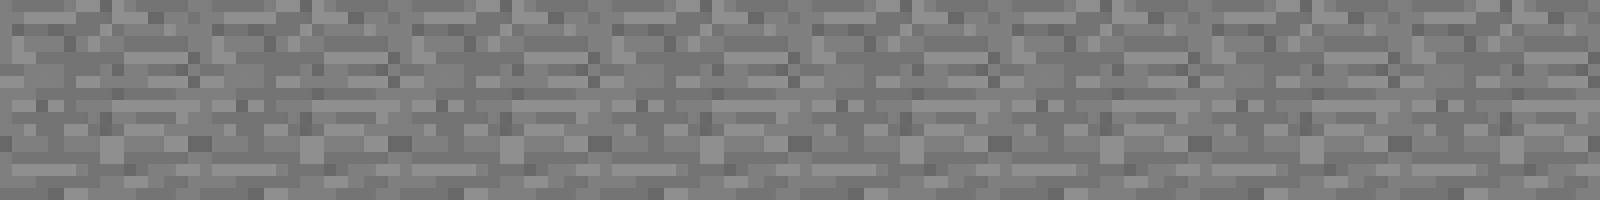
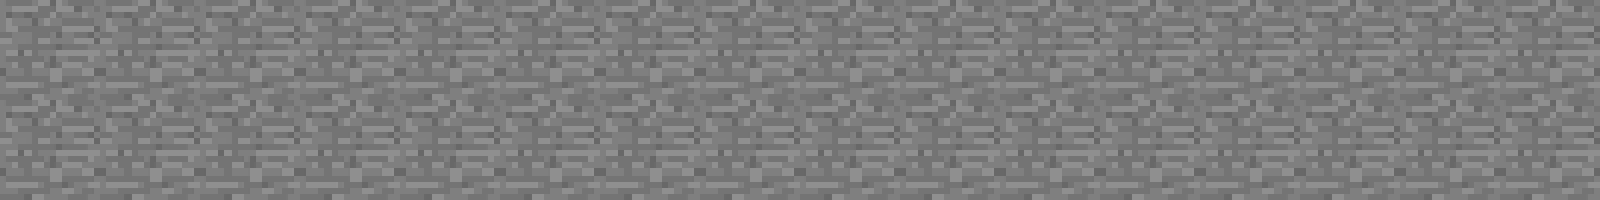
Updated some graphics and sprite positions
The game is still not pretty, but it's playable and visually makes enough sense

diff --git a/StripMiner/StripMiner.cpp b/StripMiner/StripMiner.cpp
@@ -12,7 +12,7 @@ using namespace sf;
 //Function prototypes
 void updateSpiders();
 
-const int NUM_SPIDERS = 8;
+const int NUM_SPIDERS = 9;
 Sprite spiders[NUM_SPIDERS];
 
 Sprite strips[3];
@@ -43,9 +43,9 @@ int main()
 	for (int i = 0; i < 3; i++) {
 		strips[i].setTexture(textureStrip);
 	}
-	strips[0].setPosition(400, 150);
-	strips[1].setPosition(400, 450);
-	strips[2].setPosition(400, 750);
+	strips[0].setPosition(0, 150);
+	strips[1].setPosition(0, 450);
+	strips[2].setPosition(0, 750);
 
 	//Prepare 8 spiders
 	Texture textureSpider;
@@ -158,10 +158,10 @@ int main()
 
 	//Prepare the player
 	Texture texturePlayer;
-	texturePlayer.loadFromFile("graphics/player.png");
+	texturePlayer.loadFromFile("graphics/steve_side.png");
 	Sprite spritePlayer;
 	spritePlayer.setTexture(texturePlayer);
-	spritePlayer.setPosition(580, 720);
+	spritePlayer.setPosition(1650, 750);
 
 	//The player starts on the left
 	strip playerstrip = strip::TOP;
@@ -175,22 +175,22 @@ int main()
 
 	//Prepare the axe
 	Texture textureAxe;
-	textureAxe.loadFromFile("graphics/axe.png");
+	textureAxe.loadFromFile("graphics/pickaxe.png");
 	Sprite spriteAxe;
 	spriteAxe.setTexture(textureAxe);
 	spriteAxe.setPosition(700, 830);
 
 	//Line the axe up with the tree
-	const float AXE_POSITION_TOP = 150;
-	const float AXE_POSITION_CENTER = 350;
-	const float AXE_POSITION_BOTTOM = 750;
+	const float AXE_POSITION_TOP = 205;
+	const float AXE_POSITION_CENTER = 505;
+	const float AXE_POSITION_BOTTOM = 805;
 
 	//Prepare the flying log
 	Texture textureLog;
-	textureLog.loadFromFile("graphics/log.png");
+	textureLog.loadFromFile("graphics/cobblestone.png");
 	Sprite spriteLog;
 	spriteLog.setTexture(textureLog);
-	spriteLog.setPosition(810, 720);
+	spriteLog.setPosition(1600, 750);
 
 	//Some other useful log related variables
 	bool logActive = false;
@@ -266,7 +266,7 @@ int main()
 			spriteRIP.setPosition(675, 2000);
 
 			//Move the player into position
-			spritePlayer.setPosition(580, 720);
+			spritePlayer.setPosition(1650, 750);
 
 			acceptInput = true;
 
@@ -282,22 +282,22 @@ int main()
 				if (Keyboard::isKeyPressed(Keyboard::O))
 				{
 					playerstrip = strip::TOP;
-					spritePlayer.setPosition(0, 150);
-					spriteAxe.setPosition(spriteAxe.getPosition().x, AXE_POSITION_TOP);
+					spritePlayer.setPosition(1650, 150);
+					spriteAxe.setPosition(1600, AXE_POSITION_TOP);
 				}
 
 				else if (Keyboard::isKeyPressed(Keyboard::K))
 				{
 					playerstrip = strip::CENTER;
-					spritePlayer.setPosition(0, 350);
-					spriteAxe.setPosition(spriteAxe.getPosition().x, AXE_POSITION_CENTER);
+					spritePlayer.setPosition(1650, 450);
+					spriteAxe.setPosition(1600, AXE_POSITION_CENTER);
 				}
 
 				else if (Keyboard::isKeyPressed(Keyboard::M))
 				{
 					playerstrip = strip::BOTTOM;
-					spritePlayer.setPosition(0, 750);
-					spriteAxe.setPosition(spriteAxe.getPosition().x, AXE_POSITION_BOTTOM);
+					spritePlayer.setPosition(1650, 750);
+					spriteAxe.setPosition(1600, AXE_POSITION_BOTTOM);
 				}
 				
 				score++;
@@ -309,7 +309,7 @@ int main()
 				updateSpiders();
 
 				//Set the log flying to the left
-				spriteLog.setPosition(810, 720);
+				spriteLog.setPosition(1600, 720);
 				logSpeedX = -5000;
 				logActive = true;
 
@@ -477,15 +477,15 @@ int main()
 				float spiderX = i * 200;
 				if (spiderPositions[i] == strip::TOP)
 				{
-					spiders[i].setPosition(spiderX, 150);
+					spiders[i].setPosition(spiderX, 250);
 				}
 				else if (spiderPositions[i] == strip::CENTER)
 				{
-					spiders[i].setPosition(spiderX, 450);
+					spiders[i].setPosition(spiderX, 550);
 				}
 				else if (spiderPositions[i] == strip::BOTTOM)
 				{
-					spiders[i].setPosition(spiderX, 750);
+					spiders[i].setPosition(spiderX, 850);
 				}
 				else
 				{
@@ -507,12 +507,12 @@ int main()
 				{
 					//Set it up to be a whole new log next frame
 					logActive = false;
-					spriteLog.setPosition(810, 720);
+					spriteLog.setPosition(2000, 720);
 				}
 			}
 
-			//Has the player been squished by a branch?
-			if (spiderPositions[5] == playerstrip)
+			//Has the player been bitten by a spider?
+			if (spiderPositions[NUM_SPIDERS - 1] == playerstrip)
 			{
 				//death
 				paused = true;
@@ -525,7 +525,7 @@ int main()
 				spritePlayer.setPosition(2000, 660);
 
 				//Change the text of the message
-				messageText.setString("SQUISHED!");
+				messageText.setString("BITTEN!");
 
 				//Center it on the screen
 				FloatRect textRect = messageText.getLocalBounds();
